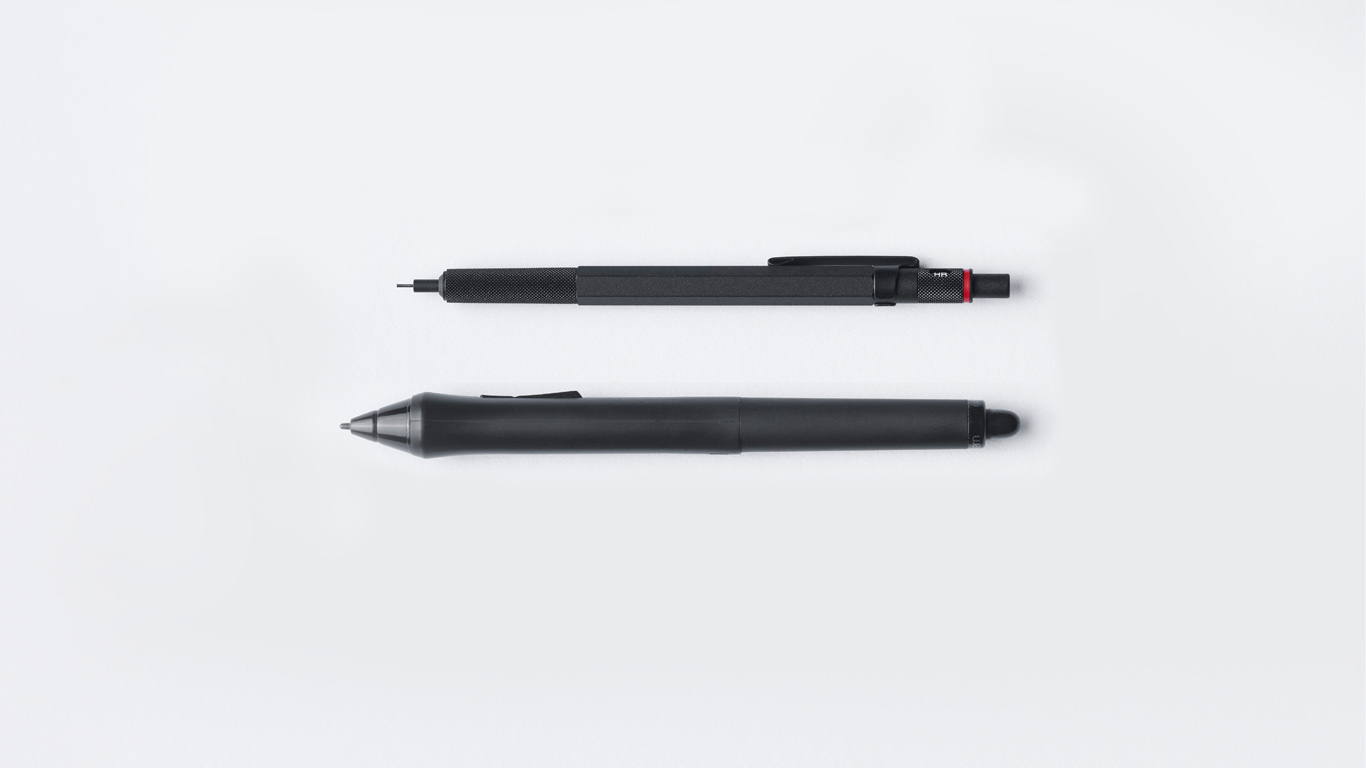
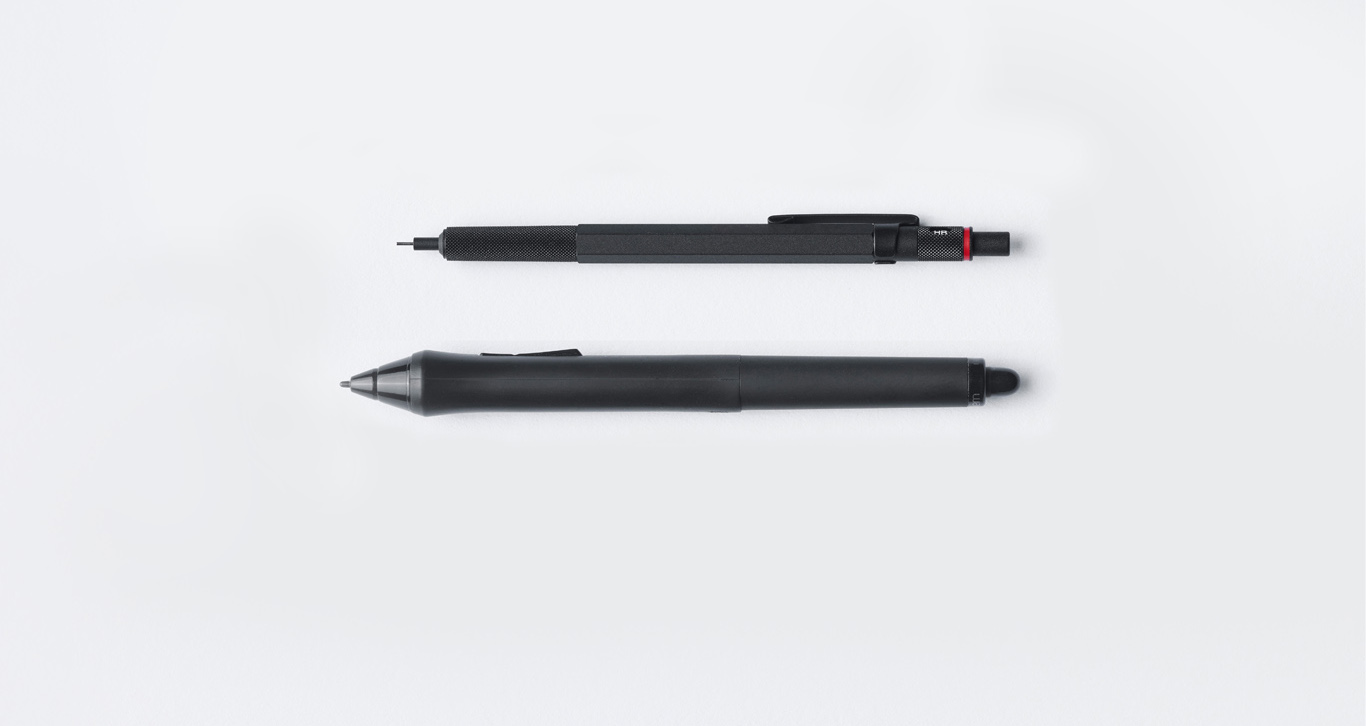
photos updated, padėk tašką added

Changed region(s): [[0.246, 0.4848, 0.7687, 0.6061], [0.2767, 0.2727, 0.7687, 0.4242]]

diff --git a/poster.html b/poster.html
@@ -6,7 +6,7 @@
     <meta http-equiv="X-UA-Compatible" content="IE=edge">
     <meta name="viewport" content="width=device-width, initial-scale=1">
     <!-- The above 3 meta tags *must* come first in the head; any other head content must come *after* these tags -->
-    <title>Kaunas European Capital of Culture 2022</title>
+    <title>Padėk Tašką</title>
     <link rel="icon" href="img/fav.png" type="image/x-icon">
 
     <!-- Bootstrap -->
@@ -75,59 +75,36 @@
     </div>
 
     <!-- top-bar -->
-    <div class="keks2022-top-bar">
-        <h1>Kaunas European Capital of Culture 2022</h1>
+    <div class="personal-mark-top-bar">
+        <h1>Padėk tašką</h1>
     </div>
     <!-- end top-bar -->
 
     <!-- main-container -->
     <div class="container main-container">
         <div class="col-md-12">
-            <img src="./img/keks1.jpg" alt="" class="img-responsive" />
-            <div class="h-20"></div>
-        </div>
-        <div class="col-md-12">
-            <img src="./img/keks3.jpg" alt="" class="img-responsive" />
-            <div class="h-20"></div>
-        </div>
-        <div class="col-md-12">
-            <img src="./img/keks4.jpg" alt="" class="img-responsive" />
-        </div>
-        <div class="col-md-12">
-            <img src="./img/keks6.jpg" alt="" class="img-responsive" />
-            <div class="h-20"></div>
-        </div>
-        <div class="col-md-12">
-            <img src="./img/keks5.jpg" alt="" class="img-responsive" />
-        </div>
-        <div class="col-md-12">
-            <img src="./img/keks2.jpg" alt="" class="img-responsive" />
+            <img src="./img/poster-padek-taska.jpg" alt="" class="img-responsive" />
         </div>
 
         <div class="col-md-12">
             <div class="h-30"></div>
-            <h3 class="text-uppercase">Kaunas European Capital of Culture 2022</h3>
+            <h3 class="text-uppercase">poster duo against bullying "Padėk tašką"</h3>
             <h5>Project was created during lectures</h5>
             <div class="h-30"></div>
         </div>
 
         <div class="col-md-9">
-            <p>This project started in 2019 and was created during lectures in Kaunas University of Applied Sciences Academy of Arts. 
-                After several weeks of analyzing visual identity examples and sketching variations of logo I created modern, fresh logo for project
-                Kaunas European Capital of Culture 2022. </p>
-
-            <p>Logotype consists of three elements: letter K, confluence and rays. The goal was to depict a mark that 
-                would be clear and easily recognizable, hence the main accent is the first letter of Kaunas. River confluence 
-                is subtly portrayed in the mark since it is one of the main symbols of Kaunas city. Impression of empathy and 
-                warmth is expressed via harmonic color and font combination. Ray-like clear space symbolizes openness of 
-                the city, a warm welcome to visit and get to know Kaunas better. </p>
+            <p>This project started in 2021 and was created during lectures in Kaunas University
+                of Applied Sciences Academy of Arts. These two posters are intended for Lithuanian general education schools. Posters spread the 
+                message for children and teenager stand up for themselves and seek help. 
+             </p>
         </div>
 
         <div class="col-md-3">
             <ul class="cat-ul">
                 <li>Design</li>
-                <li>Visual identity</li>
-                <li>Blue color</li>
+                <li>Poster</li>
+                <li>Bullying</li>
                 <li>Lecture project</li>
             </ul>
         </div>

diff --git a/index.html b/index.html
@@ -251,13 +251,13 @@
 
                 <!-- single work -->
                 <div class="col-md-3 col-sm-6 graphics ads">
-                    <a href="single-project.html" class="portfolio_item">
+                    <a href="poster.html" class="portfolio_item">
                         <img src="./img/photography.jpg" alt="image" class="img-responsive" />
                         <div class="portfolio_item_hover">
                             <div class="portfolio-border clearfix">
                                 <div class="item_info">
-                                    <span>Free time activity</span>
-                                    <em>Photography</em>
+                                    <span>Padėk tašką</span>
+                                    <em>Poster design</em>
                                 </div>
                             </div>
                         </div>

diff --git a/css/style.css b/css/style.css
@@ -1384,6 +1384,7 @@ body.theme--dark .box-menu-icon::after {
 
 .about-me {
     padding-left: 30px;
+    font-size: 18px;
 }
 
 .applications > div {
@@ -1456,8 +1457,17 @@ body.theme--dark .box-menu-icon::after {
     width: 150px;
 }
 
-.hello.initial hr {
+.about-me.initial .hello hr {
     transform: translateX(-100%);
+}
+
+.about-me.initial p span {
+    opacity: 0;
+}
+
+.about-me p span {
+    opacity: 1;
+    transition: opacity 0.25s;
 }
 
 .interests {
@@ -1546,15 +1556,15 @@ body.theme--dark .box-menu-icon::after {
 }   
 
 .timeline-item:nth-child(2) > div {
-    transition-delay: 0.75s;
+    transition-delay: 2.25s;
 }  
 
 .timeline-item:nth-child(3) > div {
-    transition-delay: 1s;
+    transition-delay: 2.5s;
 }
 
 .timeline-item:nth-child(4) > div {
-    transition-delay: 1.25s;
+    transition-delay: 2.75s;
 }
 
 

diff --git a/js/custom.js b/js/custom.js
@@ -1,6 +1,10 @@
 $(window).load(function () {
     var timeout;
 
+    $('.about-me p span').css('transition-delay', function(index) {
+        return (1 + index * 0.1) + 's';
+    });
+
     $('.logo-container').click(function (e) {
         if ($('.box-headline').hasClass('on')) {
             $('.box-headline').removeClass('on')
@@ -26,7 +30,7 @@ $(window).load(function () {
 
     setTimeout(function() {
         $('.timeline').removeClass('initial');
-        $('.hello').removeClass('initial');
+        $('.about-me').removeClass('initial');
     }, 1500);
 
     // preloader

diff --git a/about.html b/about.html
@@ -81,9 +81,9 @@
             <img src="img/profile-pic.jpg" class="img-responsive" alt="" />
         </div>
         <div class="col-md-6">
-            <div class="about-me">
+            <div class="about-me initial">
                 <h3>My name is Gabrielė!</h3>
-                <div class="hello initial">
+                <div class="hello">
                     <hr />
                 </div>
                 <div class="h-30"></div>
